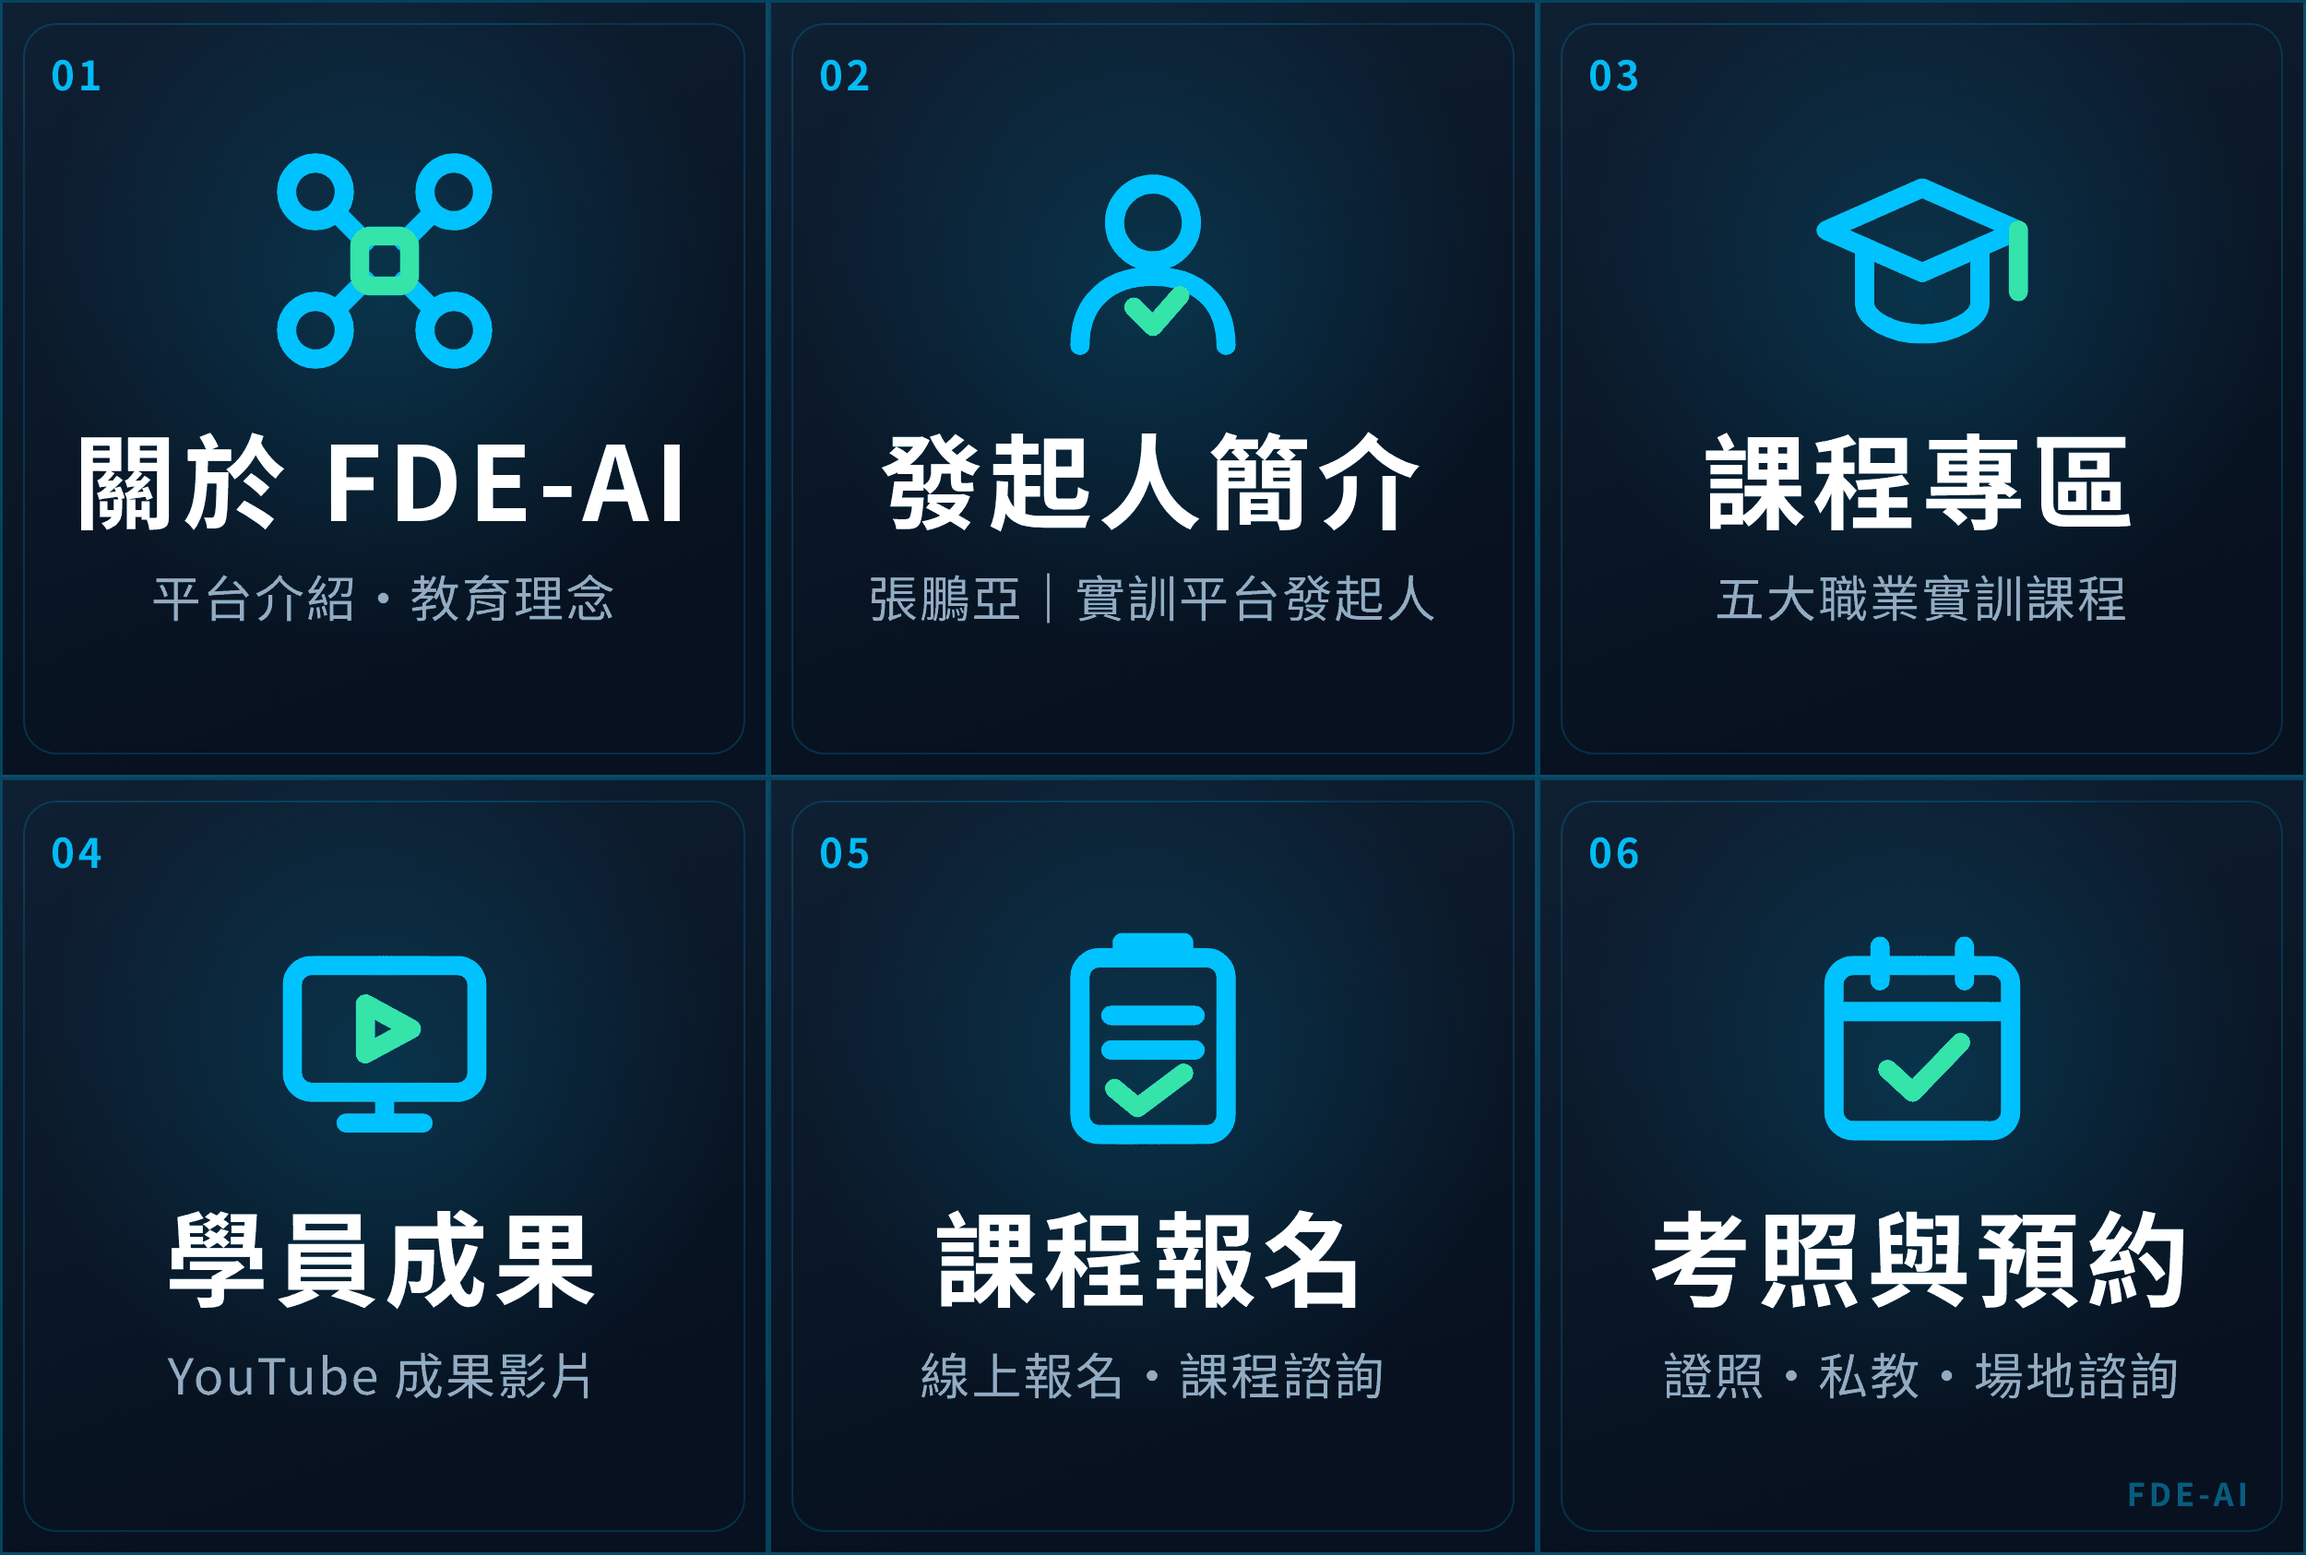
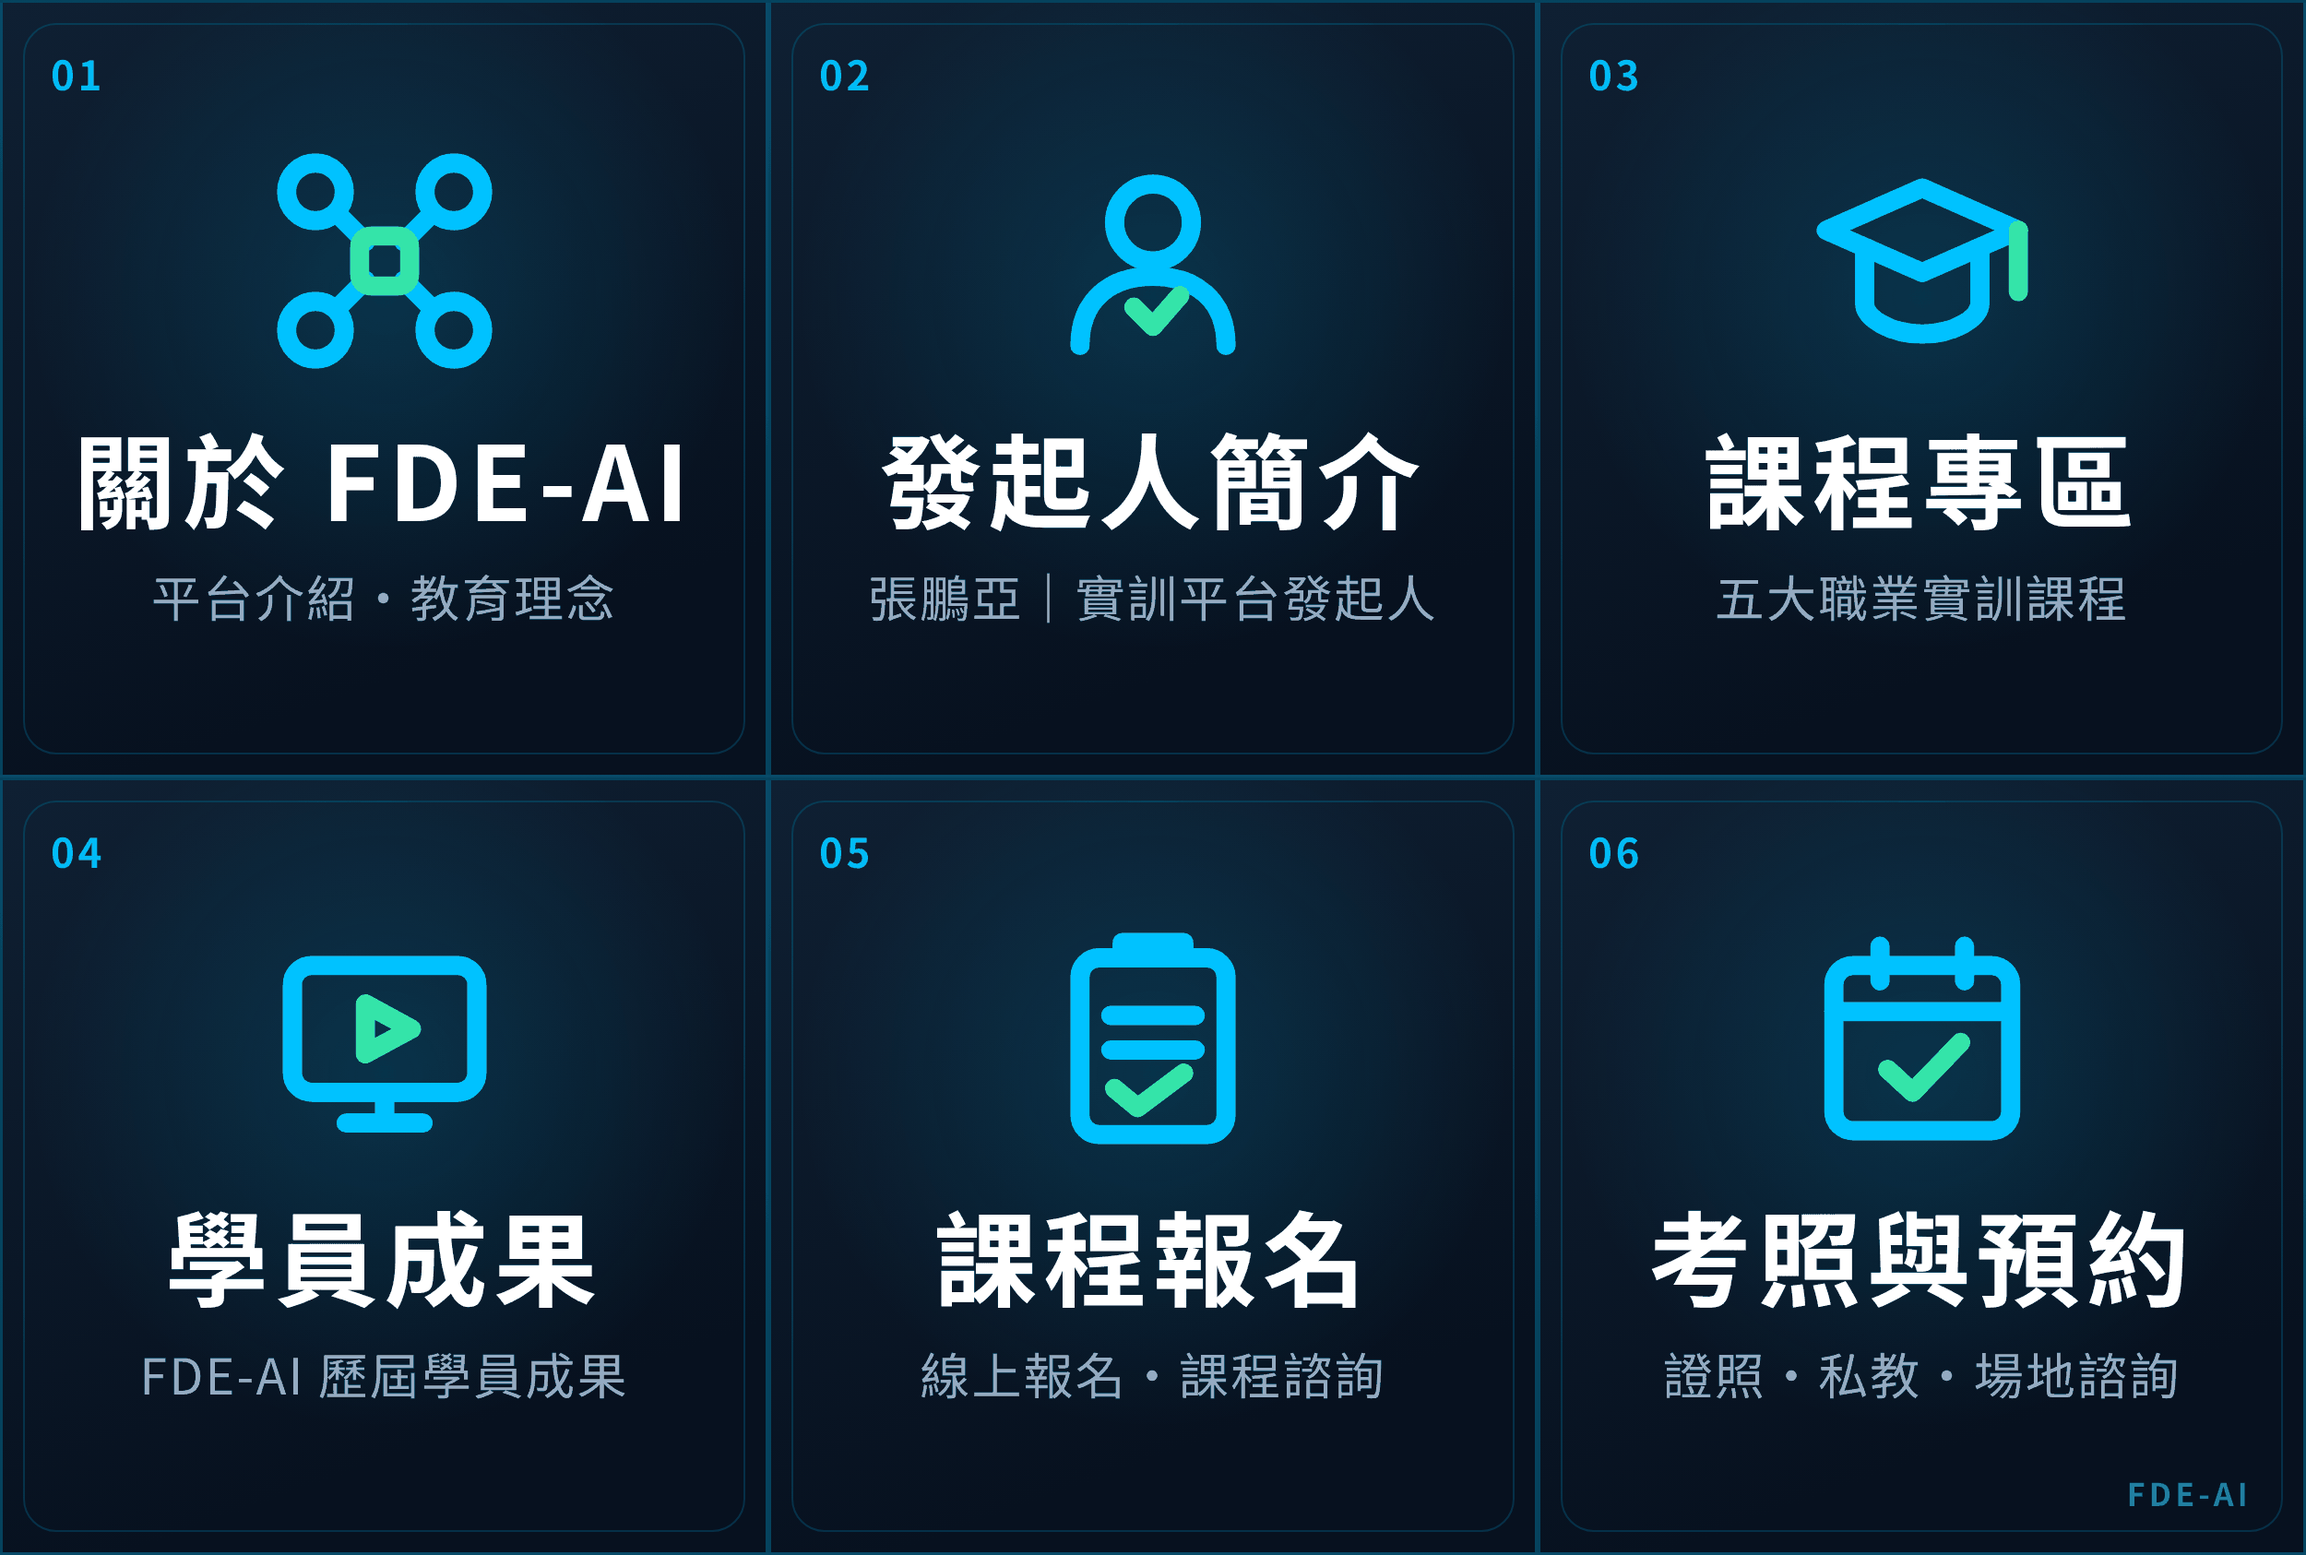
feat(line-oa): rich menu v2 — cell 02 founder card page, cell 04 site results
Claude-Session: https://claude.ai/code/session_01EfYuMLfoyks4d7dMx7AkFh

Changed region(s): [[0.0624, 0.8636, 0.2808, 0.8944], [0.936, 0.9561, 0.9672, 0.987]]

diff --git a/public-site/v2/founder/index.html b/public-site/v2/founder/index.html
@@ -4,84 +4,24 @@
 <meta charset="utf-8">
 <meta name="viewport" content="width=device-width, initial-scale=1">
 <title>發起人簡介｜FDE-AI 無人載具實訓平台</title>
-<meta name="robots" content="noindex">
+<meta name="description" content="張鵬亞｜FDE-AI 發起人：專業資歷、專業證照、核心專長與聯絡資訊。">
 <style>
-  body{margin:0;background:#07111f;color:#ddf3ff;font-family:"Microsoft JhengHei","PingFang TC","Noto Sans TC",sans-serif;line-height:1.75}
-  main{max-width:820px;margin:0 auto;padding:32px 16px 64px}
-  h1{font-size:28px;color:#fff;margin:0}
-  .role{margin:6px 0 2px;color:#00c2ff;font-size:16px}
-  .org{margin:0 0 22px;color:#35e6a8;font-size:15px}
-  h2{font-size:18px;color:#00c2ff;margin:28px 0 8px;padding-bottom:6px;border-bottom:1px solid rgba(0,194,255,.25)}
-  p{color:#c6dbea}
-  ul{padding-left:20px;margin:0}
-  li{margin:5px 0;color:#c6dbea}
-  .cols{display:grid;gap:0 32px;grid-template-columns:repeat(auto-fit,minmax(300px,1fr))}
-  .quote{margin:32px 0 0;padding:16px 18px;border-left:3px solid #35e6a8;background:rgba(15,32,51,.72);color:#fff;font-weight:700}
-  .photo{display:grid;place-items:center;width:160px;height:160px;border:1px dashed #ff5c73;border-radius:16px;color:#ff9aa9;font-size:13px;text-align:center;margin:0 0 20px}
-  .draft{padding:10px 14px;border:1px dashed #ff5c73;border-radius:10px;color:#ff9aa9;font-size:14px;margin:0 0 20px}
-  a{color:#00c2ff}
+  html,body{margin:0;background:#07111f;color:#ddf3ff;font-family:"Microsoft JhengHei","PingFang TC","Noto Sans TC",sans-serif}
+  main{max-width:1100px;margin:0 auto;padding:20px 12px 40px}
+  h1{font-size:20px;margin:0 0 14px;color:#00c2ff;letter-spacing:.04em}
+  img{display:block;width:100%;height:auto;border-radius:12px;border:1px solid rgba(0,194,255,.35)}
+  nav{margin-top:16px;display:flex;gap:12px;flex-wrap:wrap}
+  a{color:#ddf3ff;border:1px solid rgba(0,194,255,.6);border-radius:10px;padding:8px 14px;text-decoration:none;font-size:15px}
+  a:hover,a:focus-visible{background:rgba(0,194,255,.12)}
 </style>
 </head>
 <body>
 <main>
-  <p class="draft">草稿（2026-11-18，V4.1 預覽）：以下文字逐字照錄教官提供的電子履歷（PDF），未改寫；只挑選適合公開的段落。唯一例外是稱謂：依教官 2026-11-18 決定，統一為「FDE-AI 無人載具實訓平台發起人」。待教官確認後才會發布。照片只使用已授權照片。</p>
-  <div class="photo">照片<br>（待提供已授權的個人照）</div>
-  <h1>張鵬亞</h1>
-  <p class="role">AI 無人載具教育講師｜無人機教官｜課程與專案整合</p>
-  <p class="org">FDE-AI 無人載具實訓平台發起人</p>
-
-  <h2>職涯定位</h2>
-  <p>具約 20 年教學及職業訓練經驗，能從課程規劃、教材製作、設備建置、現場授課到成果評量，完整導入無人機職訓班。</p>
-
-  <h2>核心價值</h2>
-  <ul>
-    <li>無人機操作證照與實務教學並重</li>
-    <li>F450 組裝、飛控調參、航線規劃與任務驗證</li>
-    <li>整合 YOLO、3D 列印、Fusion 360、Blender 與 RAG 知識庫</li>
-  </ul>
-
-  <div class="cols">
-    <section>
-      <h2>專業資歷</h2>
-      <ul>
-        <li>中華民國三棲救援技術發展協會｜無人機教官</li>
-        <li>中華無人機產業應用教育製造協會｜無人機教官</li>
-        <li>FDE-AI 無人載具實訓平台｜發起人</li>
-        <li>具多年青少年、職前及在職培訓實務經驗</li>
-        <li>累積培訓與課程驗證近百人次以上</li>
-      </ul>
-    </section>
-    <section>
-      <h2>專業證照</h2>
-      <ul>
-        <li>交通部民用航空局（CAA）遙控無人機操作證</li>
-        <li>中國民用航空局（CAAC）民用無人駕駛航空器超視距（BVLOS）駕駛員執照</li>
-      </ul>
-    </section>
-    <section>
-      <h2>無人機與飛控</h2>
-      <ul>
-        <li>多旋翼安全操作、飛前檢查與術科訓練</li>
-        <li>F450 機體組裝、馬達／電調／飛控整合</li>
-        <li>Mission Planner 校準、飛行模式、RTL、圍欄與航線任務</li>
-        <li>H743／Pixhawk 開源飛控、數傳、雷達、光流與抛投整合</li>
-        <li>飛行故障排除、教學風險控管與現場 SOP</li>
-      </ul>
-    </section>
-    <section>
-      <h2>AI、數位製造與教學系統</h2>
-      <ul>
-        <li>YOLOv8 影像辨識、資料拍攝、標註與訓練</li>
-        <li>Fusion 360 工程建模、Blender 3D 建模與修復</li>
-        <li>3D 列印教具、無人機零件與成果作品製作</li>
-        <li>RAG 知識庫、AI 雙師教學與 Streamlit 教學原型</li>
-        <li>GitHub 專案式教學、數位孿生與學習歷程成果管理</li>
-      </ul>
-    </section>
-  </div>
-
-  <p class="quote">「學無人載具，懂 AI 應用，創智慧未來。」</p>
-  <p><a href="../programs">看 FDE-AI 課程專區</a>　｜　<a href="../">回 FDE-AI 首頁</a></p>
+  <h1>發起人簡介｜張鵬亞</h1>
+  <!-- 2026-11-18：教官提供的名片，教官指示六宮格第 2 格顯示此名片 -->
+  <img src="./zhang-pengya-card.jpg" width="1536" height="1024"
+       alt="張鵬亞，FDE-AI 無人載具人才孵化平台創辦人。專業資歷：中華民國三棲救援技術發展協會教官、中華無人機產業應用教育製造協會教官。專業證照：中華民國交通部民用航空局（CAA）遙控無人機操作證、中國民用航空局（CAAC）民用無人駕駛航空器超視距（BVLOS）駕駛員執照。核心專長：AI 視覺辨識（YOLO）、數位孿生建模、3D 列印智造、Fusion 360 × Blender、RAG 知識庫建置、GitHub 專案式教學、AI 雙師教學系統、無人載具系統教學與應用。聯絡資訊：0901-189-740，zhangpengya77@gmail.com。">
+  <nav><a href="../programs">課程專區</a><a href="../results">歷屆學員成果</a><a href="../">回 FDE-AI 首頁</a></nav>
 </main>
 </body>
 </html>

diff --git a/public-site/v2/src/contact-entries.js b/public-site/v2/src/contact-entries.js
@@ -79,7 +79,7 @@
     // 發起人簡介頁經教官確認發布前，先連到「關於我們」（設定 founderUrl 後改連簡介頁）
     { no: '02', title: '發起人簡介', sub: '張鵬亞｜實訓平台發起人', href: C.founderUrl || './about', route: C.founderUrl ? '' : 'about' },
     { no: '03', title: '課程專區', sub: '五大職業實訓課程', href: './programs', route: 'programs' },
-    { no: '04', title: '學員成果', sub: 'YouTube 成果影片', href: 'https://www.youtube.com/channel/UCqKMXztPAsc2K6crQlKxzLg', external: true },
+    { no: '04', title: '學員成果', sub: '歷屆學員成果', href: './results', route: 'cohorts' },
     { no: '05', title: '課程報名', sub: '線上報名・課程諮詢', href: './programs#pg-consult', route: 'programs', scrollTo: 'pg-consult' },
     { no: '06', title: '考照與預約', sub: '證照・私教・場地諮詢', href: './drone-license', route: 'program-drone-license' }
   ];

diff --git a/public-site/v2/src/data/contact-config.js b/public-site/v2/src/data/contact-config.js
@@ -17,7 +17,7 @@ window.FdeContact = {
   personalLineUrl: '',              // 待提供：官網目前只有學習群組連結，找不到個人 LINE 連結
   groupUrl: 'https://line.me/ti/g/jnXbd7PKK8',   // 既有學習群組（沿用 join-us.js 的連結）
   privacyUrl: './privacy/',
-  founderUrl: './founder/',         // 預覽版連到發起人簡介草稿；正式版在教官確認前留空（改連「關於我們」）
+  founderUrl: './founder/',         // 發起人簡介：教官名片（2026-11-18 教官指示）
   inquiryMode: 'demo',
   inquiryUrl: ''                    // Cloudflare 報名 Worker 的 /api/inquiry 網址；部署完成前留空（留空時一律不送出）
 };

diff --git a/line-oa/rich-menu.html b/line-oa/rich-menu.html
@@ -55,7 +55,7 @@
       <path d="M50 42 L74 55 L50 68 Z" class="accent"/>
       <path d="M40 104 L80 104 M60 88 L60 104"/>
     </svg>
-    <h2>學員成果</h2><p>YouTube 成果影片</p></section>
+    <h2>學員成果</h2><p>FDE-AI 歷屆學員成果</p></section>
 
   <section class="cell"><span class="no">05</span>
     <svg class="icon" viewBox="0 0 120 120" aria-hidden="true">
